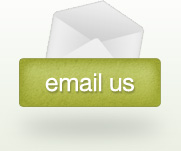
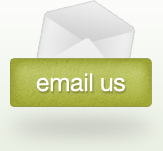
STUFF

diff --git a/index.html b/index.html
@@ -5,31 +5,40 @@
 <head>
   <meta http-equiv="Content-Type" content="text/html; charset=utf-8">
   <title>Green Cape</title>
-  <meta name="generator" content="TextMate http://macromates.com/">
   <meta name="author" content="Simon Rentzke">
   <link rel="stylesheet" type="text/css" href="http://yui.yahooapis.com/2.8.2r1/build/reset/reset-min.css">
   <link rel="stylesheet" type="text/css" href="stylesheets/main.css">
-  <!-- Date: 2010-11-03 -->
+  <!--[if lte IE 6]><link href="stylesheets/ie6.css" media="screen" rel="stylesheet" type="text/css" /><![endif]-->
 </head>
 <body>
   <div id="main">
-    <div id="header">
-    </div>
     <div id="content">
-      <h1>Green Cape</h1>
-      <div class="section">
-        <h2 id="about_us">About</h2>
-        <p>Lorem ipsum dolor sit amet, consectetur adipisicing elit, sed do eiusmod tempor incididunt ut labore et dolore magna aliqua. Ut enim ad minim veniam, quis nostrud exercitation ullamco laboris nisi ut aliquip ex ea commodo consequat.</p>
+      <div id="header">
+        <h1 id="green_cape_logo"><a href="http://www.green-cape.co.za">Green Cape</a></h1>
+        <ul id="nav">
+          <li><a href="#about_us">about</a></li>
+          <li><a href="#papers">papers</a></li>
+          <li><a href="#team">team</a></li>
+          <li class="last"><a href="#contact">contact</a></li>
+        </ul>
+      </div>
+      <div class="about">
+        <h2 id="about_us">About Us, powering the renewable evolution</h2>
+        <p>The GreenCape Initiative embodies the strategic intent of the Provincial Government of the Western Cape to ensure that the province is at the forefront of renewable energy and green technology.</p>
       </div>
       <div class="section">
+        <img src="images/papers_img.jpg" alt="papers" >
         <h2 id="papers">Papers</h2>
-        <p>Lorem ipsum dolor sit amet, consectetur adipisicing elit, sed do eiusmod tempor incididunt ut labore et dolore magna aliqua. Ut enim ad minim veniam, quis nostrud exercitation ullamco laboris nisi ut aliquip ex ea commodo consequat.</p>        <img src="images/papers_img.jpg" alt="papers" >
+        <p>Lorem ipsum dolor sit amet, consectetur adipisicing elit, sed do eiusmod tempor incididunt ut labore et dolore magna aliqua. Ut enim ad minim veniam, quis nostrud exercitation ullamco laboris nisi ut aliquip ex ea commodo consequat.</p>
+        <p>Lorem ipsum dolor sit amet, consectetur adipisicing elit, sed do eiusmod tempor incididunt ut labore et dolore magna aliqua. Ut enim ad minim veniam, quis nostrud exercitation ullamco laboris nisi ut aliquip ex ea commodo consequat. Duis aute irure dolor in reprehenderit in voluptate velit esse cillum dolore eu fugiat nulla pariatur. Excepteur sint occaecat cupidatat non proident, sunt in culpa qui officia deserunt mollit anim id est laborum.
+          Lorem ipsum dolor sit amet, consectetur adipisicing elit, sed do eiusmod tempor incididunt ut labore et dolore magna aliqua. Ut enim ad minim veniam, quis nostrud exercitation ullamco laboris nisi ut aliquip ex ea commodo consequat. Duis aute irure dolor in reprehenderit in voluptate velit esse cillum dolore eu fugiat nulla pariatur. Excepteur sint occaecat cupidatat non proident, sunt in culpa qui officia deserunt mollit anim id est laborum.</p>
       </div>
       <div class="section">
+        <img src="images/team_img.jpg"  alt="team" >
         <h2 id="team">Team</h2>
-        <p>Lorem ipsum dolor sit amet, consectetur adipisicing elit, sed do eiusmod tempor incididunt ut labore et dolore magna aliqua. Ut enim ad minim veniam, quis nostrud exercitation ullamco laboris nisi ut aliquip ex ea commodo consequat.</p>        <img src="images/team_img.jpg"  alt="team" >
+        <p>Lorem i  Lorem ipsum i ut aliquip ex ea commodo consequat.</p>
       </div>
-      <div class="section">
+      <div id="contact_us">
         <h2 id="contact">Contact</h2>
         <p class="address">9th Floor
           Waldorf Building<br/>
@@ -42,11 +51,12 @@
           <span>F:</span>021 483 8098
         </p>
         <div id="email_us">
-          <a href="mailto:info@green-cape.co.za"><img src="images/email_us.jpg" alt="email us"></a>
+          <a href="mailto:info@green-cape.co.za">Email us</a>
         </div>
       </div>
       <div id="footer">
         <img src="images/footer_logos.jpg" id="sponsor_logos" alt="sponsor logos" >
+        <div id="copyright"><img src="images/ftr_gclogo.gif" width="239" height="57" alt="Green Cape"></div>
       </div>
     </div>
   </div>

diff --git a/stylesheets/main.css b/stylesheets/main.css
@@ -1,27 +1,88 @@
 body {
   background: #8cc63e url('../images/body_bg.jpg') repeat-x top;
   font-family:verdana, helvetica, arial, sans-serif;
-  font-size: 14px;
+  font-size: 62.5%;
   line-height: 22px;
   padding: 50px 0px 50px 0px;
 }
 
+.clearfix:after {
+  content: ".";
+  display: block;
+  clear: both;
+  visibility: hidden;
+  line-height: 0;
+  height: 0;
+}
+.clearfix {
+  display: inline-block;
+}
+html[xmlns] .clearfix {
+  display: block;
+}
+
+* html .clearfix {
+  height: 1%;
+}
+
 span {
   font-weight: bold;
+  padding: 2px;
+}
+
+h1 {
+  background: url('../images/header_logo.gif') no-repeat;
+  text-indent: -9999px;
+  height: 130px;
+  width: 160px;
+  float:left;
 }
 
 div#main {
-  width: 960px;
-  background-color: #618c26;
+  width: 950px;
+  background-color: #70a02f;
   margin: auto;
 }
 
 div#content {
   width: 940px;
-  padding: 10px 10px 10px 10px;
+  padding: 5px;
 }
 
-div#header {
+div#content div#header {
+  padding-left: 60px;
+  height: 130px;
+  background: #fff url('../images/header_bg.jpg') repeat-x top;
+  position: relative;
+}
+
+div#content div#header ul#nav {
+  padding: 0px 18px 0px 22px;
+  background: #fff url('../images/topnav_bg.gif') no-repeat bottom;
+  position: absolute;
+  width: 263px;
+  left: 342px;
+  bottom: 0px;
+}
+
+div#content div#header ul#nav li{
+  padding: 19px 29px 7px 0px;
+  float: left;
+  font-size: 1.4em;
+  display: block;
+}
+
+div#content div#header ul#nav li a, div#content div#header ul#nav li a:visited {
+  text-decoration: none;
+  color: #677b51;
+}
+
+div#content div#header ul#nav li a:hover, div#content div#header ul#nav li a:active {
+  color: #8ac240;
+}
+
+div#content div#header ul#nav li.last {
+  padding: 19px 0px 6px 0px;
 }
 
 div#content div#footer {
@@ -32,55 +93,105 @@ div#content div#footer {
 div#content div.section {
   background: #fff url('../images/page_section_bg.jpg') repeat-x bottom;
   color: #8F9D7E;
-  padding: 40px 20px 20px 58px;
-  height: 260px;
+  padding: 40px 60px 20px 60px;
+  width: 820px;
+  font-size:  1.4em;
+  clear: both;
+  overflow: auto;
+}
+
+div#content div.about {
+  background: #999933 url('../images/about_bg.jpg') no-repeat bottom;
+  color: #fff;
+  padding: 0px 0px 0px 140px;
+  height: 228px;
+}
+
+div#content div.about p {
+  width:438px;
+  font-size:1.6em;
+  margin:12px 0 0 0;
+}
+
+div#content h2#about_us {
+  position: relative;
+  top: 22px;
+  left: 0;
+  height: 100px;
+  background: url('../images/about_hding.png') no-repeat;
+}
+
+div#content div#contact_us {
+  position: relative;
+  background: #fff url('../images/page_section_bg.jpg') repeat-x bottom;
+  color: #8F9D7E;
+  padding: 40px 20px 20px 60px;
+  height: 230px;
+  font-size:  1.4em;
   clear: left;
 }
 
-div#content div.section p {
-  width: 400px;
-  float:left;
-}
-
-div#content div.section p.address {
+div#content div#contact_us p.address {
   line-height: 30px;
   width: 220px;
   float:left;
 }
 
 div#email_us {
-  float: left;
-  padding-right: 30px;
+  position: absolute;
+  bottom: 36px;
+  right: 123px;
 }
 
 div.section img {
-  float:left;
-  margin-left: 145px;
+  float:right;
+  margin: 0 0px 27px 145px;
 }
 
-div.section #email_us img{
-  float:left;
+div#contact_us div#email_us a {
+  display: block;
+  background: url('../images/email_us.jpg') no-repeat;
+  text-indent: -9999px;
+  width: 163px;
+  height: 151px;
+}
+
+div#contact_us div#email_us a:focus {
+  outline:  none;
+}
+
+div#content div.section p {
+  margin-top: 10px;
 }
 
 div#content h2 {
    text-indent: -9999px;
    height: 38px;
-   margin-bottom: 20px;
-   display: hidden;
+   margin-bottom: 14px;
 }
 
 div#content h2#papers {
-  background: #fff url('../images/headings.gif') no-repeat 0px 0px;
+  background: url('../images/headings.gif') no-repeat 0px 0px;
 }
 
 div#content h2#team {
-  background: #fff url('../images/headings.gif') no-repeat 0px -38px;
+  background: url('../images/headings.gif') no-repeat 0px -38px;
 }
 
 div#content h2#contact {
-  background: #fff url('../images/headings.gif') no-repeat 0px -76px;
+  background: url('../images/headings.gif') no-repeat 0px -76px;
+}
+
+div#footer {
+  padding-left: 60px;
 }
 
 #footer img#sponsor_logos {
-  padding: 26px 0px 0px 58px;
+  padding: 26px 0px 0px 0px;
+  float:left;
+}
+
+#footer #copyright {
+  padding: 15px 60px 0px 0px;
+  float:right;
 }

diff --git a/stylesheets/ie6.css b/stylesheets/ie6.css
@@ -1,0 +1,8 @@
+#about_us {
+  position: relative;
+  top: 32px;
+  left: 80px;
+  height: 100px;
+  background: none !important;
+ filter: progid:DXImageTransform.Microsoft.AlphaImageLoader(src='images/about_hding.png', sizingMethod='crop');
+}
